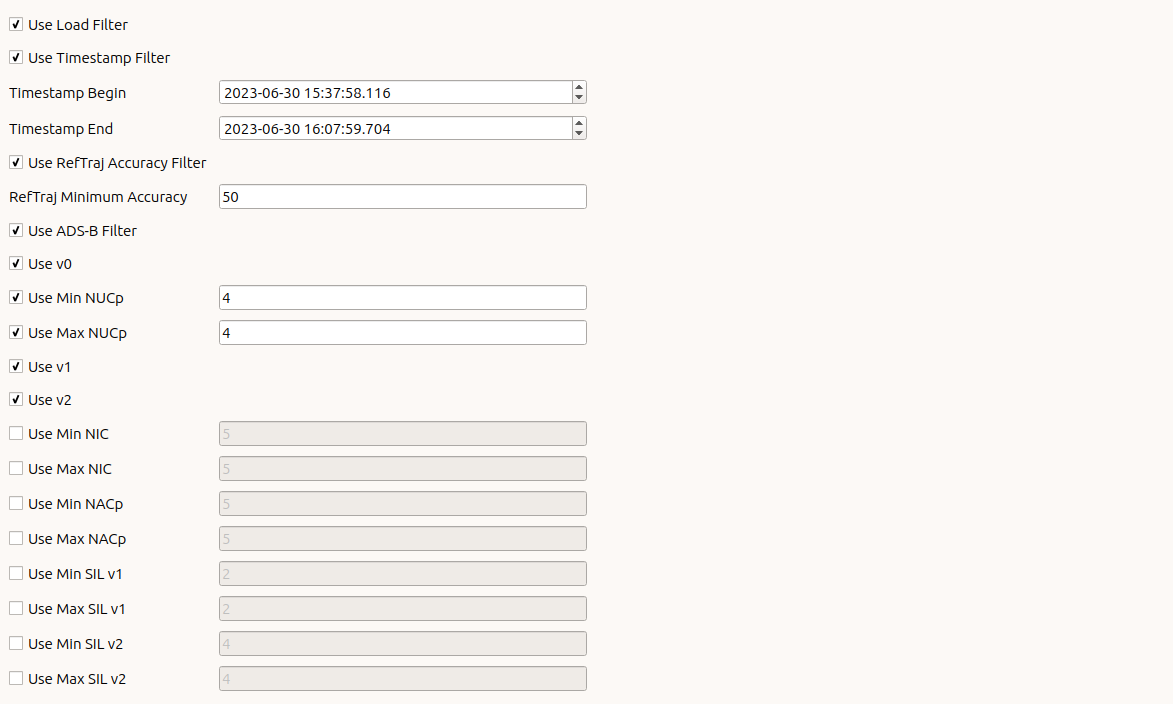
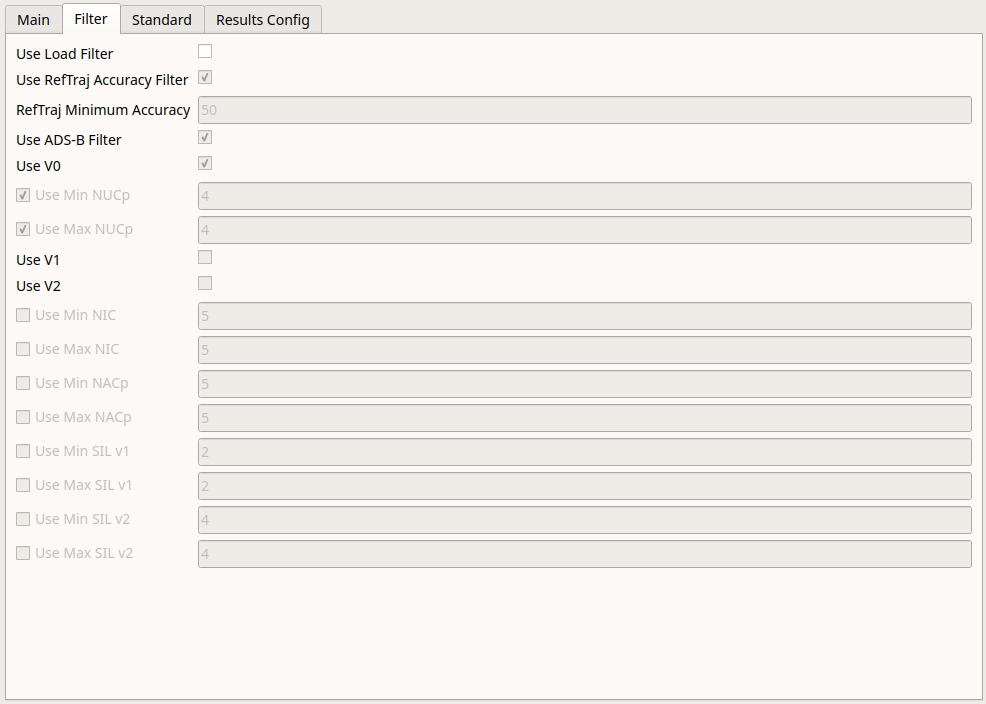
doc up

diff --git a/doc/user_manual/eval/evaluation.tex b/doc/user_manual/eval/evaluation.tex
@@ -70,7 +70,7 @@ Pressing the 'Run' button at the bottom will run the Evaluation, and generate a 
 
 \begin{figure}[H]
   \hspace*{-2cm}
-    \includegraphics[width=18cm]{figures/eval_main.png}
+    \includegraphics[width=18cm,frame]{figures/eval_main.png}
   \caption{Evaluation Main tab}
 \end{figure}
 
@@ -138,57 +138,7 @@ All requirement mappings thus should be deselected for this layer (see figure be
   \caption{Minimum Height Filter}
 \end{figure}
 
-% \subsection{Targets Tab}
-
-% \begin{figure}[H]
-%   \hspace*{-2cm}
-%     \includegraphics[width=18cm,frame]{figures/eval_targets_empty.png}
-%   \caption{Evaluation Targets tab}
-% \end{figure}
-
-% Before the data was loaded, the table is empty. Each target (defined by the UTN) is shown in a dedicated row. \\
-
-% The following columns exist:
-
-% \begin{itemize}  
-% \item Use: Checkbox defining if the target should be used in the evaluation
-% \item UTN: Unique Target Number
-% \item Comment: User comment, can be set with double-click, persisted into database
-% \item Interest: Score showing how strong a negative impact a target had on all requirement results. Please refer to \nameref{sec:eval_targets_of_interest} for details.
-% \item Begin: First timestamp of UTN
-% \item End: Last timestamp of UTN
-% \item \#All: Sum number of target reports
-% \item \#Ref: Number of target reports in reference data
-% \item \#Tst: Number of target reports in test data
-% \item ACIDs: Mode S aircraft identification(s)
-% \item ACADs: Mode S aircraft address (hexadecimal)
-% \item M3/A: Mode 3/A code(s) (octal)
-% \item MC Min: Mode C code minimum [ft]
-% \item MC Max: Mode C code maximum [ft]
-% \end{itemize}
-% \ \\
-
-% Unless otherwise specified, the column content reflects the values from both reference and test data. \\
-
-% After loading the data, the table can look as follows:
-
-% \begin{figure}[H]
-%   \hspace*{-2cm}
-%     \includegraphics[width=18cm,frame]{figures/eval_targets_loaded.png}
-%   \caption{Evaluation Targets tab with loaded data}
-% \end{figure}
-
-% After evaluation (and sorting by interest), the table can look as follows:
-
-% \begin{figure}[H]
-%   \hspace*{-2cm}
-%     \includegraphics[width=18cm,frame]{figures/eval_targets_eval.png}
-%   \caption{Evaluation Targets tab with evaluated data}
-% \end{figure}
-
 \subsection{Filter Tab}
-
-\hl{TODO: changes}
 
 \begin{figure}[H]
   \hspace*{-2cm}
@@ -201,7 +151,6 @@ In the Filter tab, what data is loaded for evaluation can be filtered \\
 Below, the following elements exist:
 \begin{itemize}  
 \item 'Use Load Filter': Toggles usage of the load filter
-\item 'Use Timestamp Filter: Toggles usage of the timestamp filter
 \item 'Use RefTraj Accuracy Filter: Toggles usage of the minimum accuracy filter for DBContent RefTraj
 \item 'Use ADS-B Filter: Toggles usage of the ADS-B filter
 \item 'Use v0: Toggles usage of MOPS Version 0

diff --git a/doc/user_manual/flightdeck/reports/reports.tex b/doc/user_manual/flightdeck/reports/reports.tex
@@ -96,7 +96,7 @@ The following dialog will open.
 \begin{figure}[H]
     \hspace*{-2.5cm}
     \center
-    \includegraphics[width=12cm,frame]{figures/export_json.png}
+    \includegraphics[width=14cm]{figures/export_json.png}
   \caption{Export as JSON}
 \end{figure}
 
@@ -143,7 +143,7 @@ The following dialog will open.
 \begin{figure}[H]
     \hspace*{-2.5cm}
     \center
-    \includegraphics[width=12cm,frame]{figures/export_latex.png}
+    \includegraphics[width=14cm]{figures/export_latex.png}
   \caption{Export as Latex}
 \end{figure}
 
@@ -182,8 +182,8 @@ The following dialog will open.
 \begin{figure}[H]
     \hspace*{-2.5cm}
     \center
-    \includegraphics[width=12cm,frame]{figures/export_pdf.png}
-  \caption{Export as Latex}
+    \includegraphics[width=14cm]{figures/export_pdf.png}
+  \caption{Export as Latex PDF}
 \end{figure}
 
 In addition to the input fields described in Section \nameref{sec:report_export_latex}, 
@@ -206,7 +206,7 @@ After export the folder structure created will e.g. look like this.
 \begin{figure}[H]
     \hspace*{-2.5cm}
     \center
-    \includegraphics[width=10cm,frame]{figures/export_pdf_result.png}
+    \includegraphics[width=14cm,frame]{figures/export_pdf_result.png}
   \caption{Export as PDF: Resulting folder structure}
 \end{figure}
 
@@ -239,7 +239,7 @@ contents listing all available sections.
 \begin{figure}[H]
     \hspace*{-2.5cm}
     \center
-    \includegraphics[width=7cm,frame]{figures/section_button.png}
+    \includegraphics[width=12cm,frame]{figures/section_button.png}
   \caption{Section table of contents}
 \end{figure}
 

diff --git a/doc/user_manual/intro/introduction.tex b/doc/user_manual/intro/introduction.tex
@@ -23,7 +23,7 @@ In the larger section \nameref{sec:ui_overview}, the steps are described to run 
 
 The filtering mechanism described in detail in \nameref{sec:filters}. \\
 
-Based on Traffic of Opportunity reference trajectories can be calculated, the reconstructor feature is presented in the section \nameref{sec:reconstructor}. \\
+Based on Traffic of Opportunity reference trajectories can be calculated, the reconstructor feature is presented in the section \nameref{sec:reconst}. \\
 
 The evaluation feature is presented in the section \nameref{sec:eval}, describing how requirement-based standards can be adapted/defined and compliance to said standards can be assessed. \\
 
@@ -31,7 +31,7 @@ Re-visiting saved points of interest is described in section \nameref{sec:view_p
 
 The application commonly uses the 'Offline' mode. When ASTERIX data is imported from the network, the application switches into 'Live' mode, which is described in \nameref{sec:live_mode}. \\
 
-The automated execution of configured tasks is described in \nameref{sec:command_line}. \\
+The automated execution of configured tasks is described in \nameref{sec:scripting}, both via the command line interface and also the runtime command interface. \\
 
 In the section \nameref{sec:troubleshooting} details about reported issues are collected. It also contains instructions on how to report new issues. \\
 

diff --git a/doc/user_manual/install/install_upgrade_config.tex b/doc/user_manual/install/install_upgrade_config.tex
@@ -1,7 +1,7 @@
 
 \section{Configuration Upgrade}
 
-If the used version of COMPASS has never been run on the workstation, the configuration (and additional application data) will be copied into a subfolder of the home directory (e.g. \textasciitilde/.compass/v0.9.0/). \\
+If the used version of COMPASS has never been run on the workstation, the configuration (and additional application data) will be copied into a subfolder of the home directory (e.g. \textasciitilde/.compass/0.9.0/). \\
 
 \includegraphics[width=0.5cm]{../../data/icons/hint.png} When switching from an older COMPASS version to a newer one, it is recommended to do a data sources export (see \nameref{sec:config_ds_export}) in the old version, 
 and then an import in the new one. \\

diff --git a/doc/user_manual/eval/eval_targets.tex b/doc/user_manual/eval/eval_targets.tex
@@ -113,8 +113,7 @@ Right-clicking on a target and selecting 'Target Usage' will show the following 
 \begin{figure}[H]
   \hspace*{-2cm}
   \center
-    \includegraphics[width=6cm,frame]{figures/eval_target_usage.png}
-  %\caption{Evaluation Targets tab with evaluated data}
+    \includegraphics[width=10cm,frame]{figures/eval_target_usage.png}
 \end{figure}
 
 The specified actions are the same as described in section \nameref{sec:ui_eval_usage}.

diff --git a/doc/user_manual/eval/eval_inspect.tex b/doc/user_manual/eval/eval_inspect.tex
@@ -74,7 +74,7 @@ When single-clicking a row, the respective sector requirement results are shown 
 
 \begin{figure}[H]
   \hspace*{-2.5cm}
-    \includegraphics[width=19cm]{figures/histogram_eval_pos_correct.png}
+    \includegraphics[width=19cm,frame]{figures/histogram_eval_pos_correct.png}
   \caption{Evaluation Results: Position Correct in Histogram View}
 \end{figure}
 

diff --git a/doc/user_manual/flightdeck/filters/filters.tex b/doc/user_manual/flightdeck/filters/filters.tex
@@ -181,7 +181,7 @@ Please note that ADS-B target reports can also contain Mode 3/A code information
 
 \begin{figure}[H]
   \center
-    \includegraphics[width=8cm,frame]{figures/filter_modec.png}
+    \includegraphics[width=12cm,frame]{figures/filter_modec.png}
   \caption{Mode C Codes filter}
 \end{figure}
 

diff --git a/doc/user_manual/flightdeck/viewpoints/view_points.tex b/doc/user_manual/flightdeck/viewpoints/view_points.tex
@@ -7,7 +7,7 @@ Additionally, view points can be imported, removed and exported.
 
 \begin{figure}[H]
     \hspace*{-2.5cm}
-    \includegraphics[width=19cm]{figures/view_points.png}
+    \includegraphics[width=19cm,frame]{figures/view_points.png}
   \caption{View Points Overview}
 \end{figure}
 
